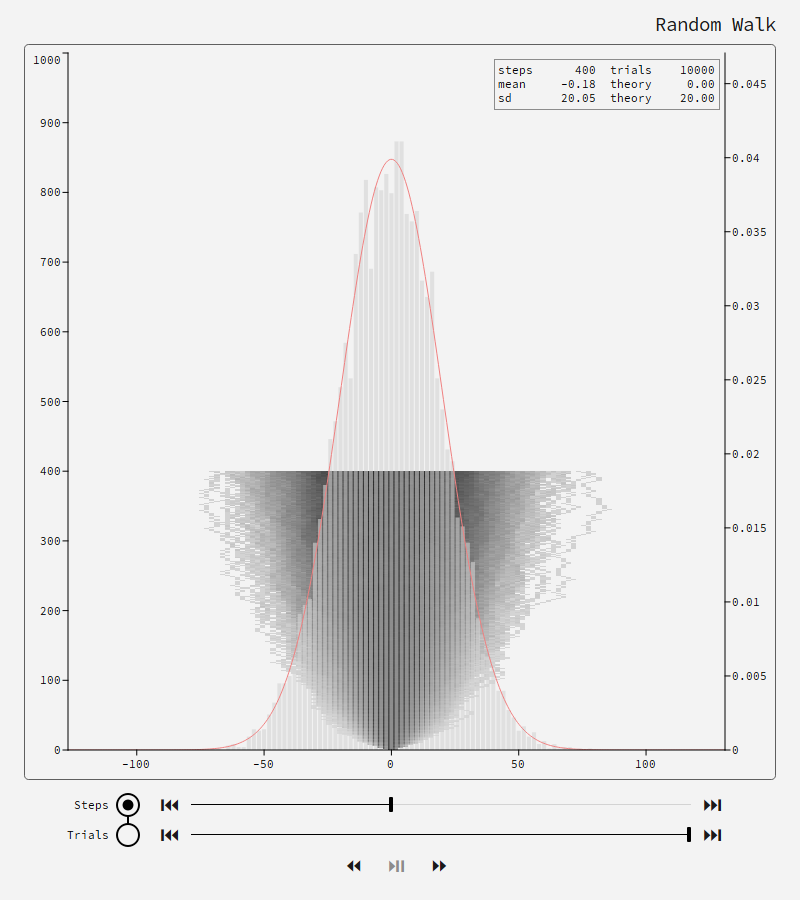
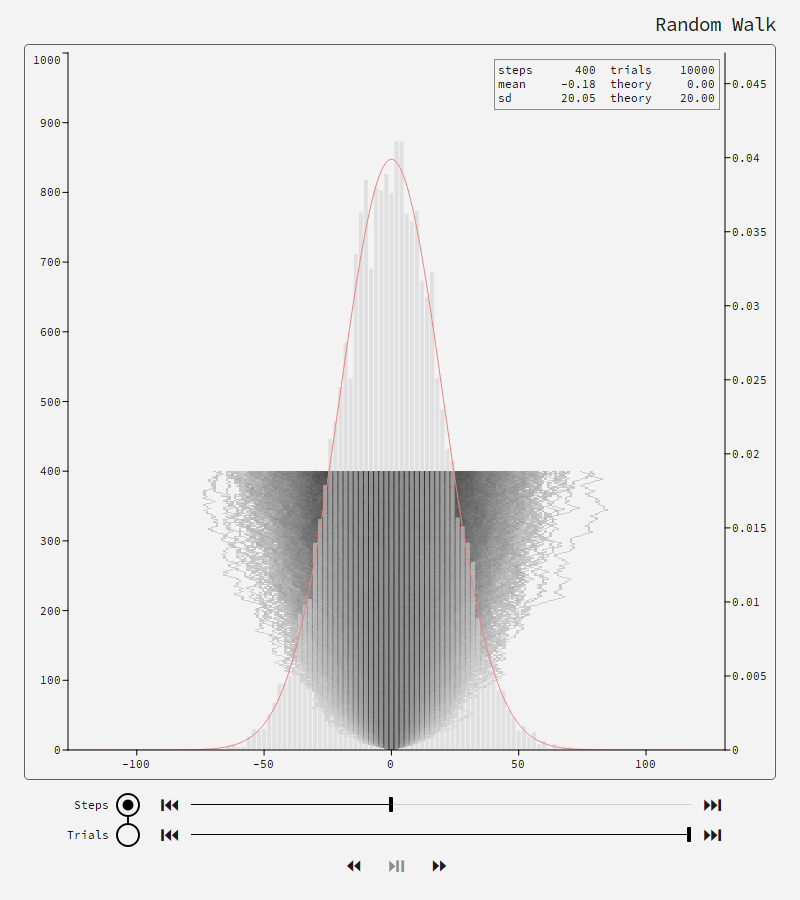
v0.4.0: Step trace fixed

Changed region(s): [[0.625, 0.5289, 0.75, 0.7156], [0.25, 0.5289, 0.375, 0.7467]]

diff --git a/src/random_walk/gui/walk_view.py b/src/random_walk/gui/walk_view.py
@@ -45,12 +45,12 @@ from PySide6.QtWidgets import QFrame, QWidget
 from random_walk import theory
 from random_walk.placement import Side, legend_side
 from random_walk.simulation import (
-    density_grid,
     fractions_at,
     legend_lines,
     legend_stats,
     normalize_rows,
     parity_bins,
+    trace_grid,
 )
 from random_walk.ticks import nice_step, nice_ticks, tick_label
 
@@ -67,7 +67,6 @@ DENSITY_DARKEST = "#222222"
 # sparse cells (at 0.3 a cell with 5% of the peak gets 41% of the shading, not 5%), so the
 # fan's thin outer edges show while the centre stays darkest. 1 = linear.
 DENSITY_GAMMA = 0.3
-DENSITY_BIN_WIDTH = 2  # positions per density column (one even, one odd)
 DENSITY_CACHE_SIZE = 4  # density images kept (one per shown step); animation makes many
 BAR_GAP = 1.0  # px between neighbouring bars, so they stay distinct
 THEORY_COLOR = "#F08080"  # light red (light coral) theory curve
@@ -83,8 +82,7 @@ THEORY_HEADROOM = 0.18
 BAR_HEADROOM = 0.05
 WALL_COLOR = "#8c8c8c"  # mid grey vertical line marking the reflecting wall
 WALL_WIDTH = 1.0  # px
-WALL_MARGIN = 6  # positions shown left of the wall: clear of the step axis; even, so the
-# density columns (2 positions each) start at the wall rather than straddling its line
+WALL_MARGIN = 6  # positions shown left of the wall, so its line stands clear of the step axis
 LEGEND_INSET = 6  # px from the plot's top-right corner to the legend box
 LEGEND_PADDING = 4  # px inside the box, around the text
 LEGEND_BORDER_COLOR = "#8c8c8c"  # mid grey, 1 px
@@ -227,7 +225,11 @@ class WalkView(QFrame):
         self._tallest_from: NDArray[np.float64] = np.zeros(0)
         self.hold_density = False
         self._legend_side: Side = "right"  # the legend's top corner; see _paint_legend
-        self._density_images: dict[tuple[int, int], QImage] = {}  # by (trials, last step)
+        # by (trials, last step, pixel height)
+        self._density_images: dict[tuple[int, int, int], QImage] = {}
+        # The shading squeezed to the plot's height: ((trials, height), first steps, rows).
+        self._combined: tuple[tuple[int, int], NDArray[np.int64], NDArray[np.float64]] | None
+        self._combined = None
 
     def set_paths(
         self, paths: NDArray[np.int64], p_right: float = 0.5, wall: int | None = None
@@ -512,22 +514,41 @@ class WalkView(QFrame):
         )
         painter.restore()
 
-    def density_image(self) -> QImage:
-        """The counted walks' positions at every step as a greyscale image: one row per step
-        (step 0 at the bottom), one column per DENSITY_BIN_WIDTH positions, each row shaded
-        relative to its own busiest cell; rows above the shown step are left empty. Counted
-        once per number of trials (~0.1 s for 10,000 walks), unless `hold_density` keeps the
-        last count; the last few shown steps' images are cached."""
+    def density_image(self, height: int | None = None) -> QImage:
+        """The counted walks' traces as a greyscale image (simulation.trace_grid): one row per
+        stretch between steps (step 0 at the bottom), one column per unit interval between
+        positions, each row shaded relative to its own busiest cell; rows beyond the shown
+        step are left empty. Counted once per number of trials (~75 ms for 10,000 walks),
+        unless `hold_density` keeps the last count; the last few images are cached.
+
+        With `height` (px) below the number of steps, the image is that tall instead: each
+        pixel row takes the darkest of the steps it covers. Scaling down by dropping rows
+        would cut gaps into a lone walk's trace."""
         shade = self._density_counted()
         last = self.shown_step()
-        key = (self._density_trials, last)
+        rows = len(shade)
+        height = rows if height is None else min(max(height, 1), rows)
+        key = (self._density_trials, last, height)
         if key not in self._density_images:
-            shade = shade.copy()
-            shade[last + 1 :] = 0  # the walks haven't got there yet
+            # `lifted`: the shade raised to DENSITY_GAMMA, which lifts the sparse cells. (For
+            # combined rows it's applied once, in the cache: the darkest of the lifted values
+            # is the lifted darkest value.)
+            if height < rows:  # combine, don't drop: the darkest step in each pixel row
+                starts, combined = self._combined_rows(height)
+                lifted = combined.copy()
+                boundary = last * height // rows  # the pixel row holding step `last`
+                if boundary < height:  # (at the last step every row is shown)
+                    lifted[boundary:] = 0  # the walks haven't got there yet
+                    if last > starts[boundary]:  # its steps before `last` are shown
+                        darkest_so_far = self._density_shade_rows(starts[boundary], last)
+                        lifted[boundary] = darkest_so_far**DENSITY_GAMMA
+            else:
+                lifted = shade.copy()
+                lifted[last:] = 0  # the walks haven't got there yet (row k runs to k + 1)
+                lifted **= DENSITY_GAMMA
             empty = self.palette().window().color().lightness()
             darkest = QColor(DENSITY_DARKEST).lightness()
-            shade = shade**DENSITY_GAMMA  # lift the sparse cells (see DENSITY_GAMMA)
-            grey = np.round(empty - shade * (empty - darkest)).astype(np.uint8)
+            grey = np.round(empty - lifted * (empty - darkest)).astype(np.uint8)
             pixels = np.ascontiguousarray(grey[::-1])  # image rows run top-down
             height, width = pixels.shape
             image = QImage(pixels.data, width, height, width, QImage.Format.Format_Grayscale8)
@@ -536,22 +557,41 @@ class WalkView(QFrame):
             self._density_images[key] = image.copy()  # own the pixels; `pixels` is temporary
         return self._density_images[key]
 
+    def _combined_rows(self, height: int) -> tuple[NDArray[np.int64], NDArray[np.float64]]:
+        """The whole shading squeezed into `height` pixel rows, each the darkest of the steps
+        it covers, already raised to DENSITY_GAMMA, and each pixel row's first step. Cached
+        per count and height, so a frame only has to blank the rows beyond its step."""
+        shade = self._density_counted()
+        cache_key = (self._density_trials, height)
+        if self._combined is None or self._combined[0] != cache_key:
+            rows = len(shade)
+            pixel_rows = np.arange(rows) * height // rows  # every pixel row gets >= 1 step
+            starts = np.flatnonzero(np.diff(pixel_rows, prepend=-1))
+            combined = np.maximum.reduceat(shade, starts, axis=0) ** DENSITY_GAMMA
+            self._combined = (cache_key, starts, combined)
+        return self._combined[1], self._combined[2]
+
+    def _density_shade_rows(self, first: int, stop: int) -> NDArray[np.float64]:
+        """The darkest shade over steps `first`..`stop - 1`, cell by cell."""
+        assert self._density_shade is not None
+        return self._density_shade[first:stop].max(axis=0)
+
     def _density_counted(self) -> NDArray[np.float64]:
         """The density shading for the counted trials, counting them first if needed (unless
-        `hold_density` keeps the last count). The count also gives each step's tallest bar:
-        at any one step every walk shares a parity, so each width-2 density cell holds one
-        histogram bin."""
+        `hold_density` keeps the last count). The same pass gives each step's tallest
+        histogram bar (`trace_grid`'s peaks)."""
         assert self._paths is not None
         trials = self.trial_count()
         if self._density_shade is None or (
             trials != self._density_trials and not self.hold_density
         ):
             lo, hi = self._x_range
-            grid = density_grid(self._paths[:trials], lo, hi, DENSITY_BIN_WIDTH)
-            self._density_shade = normalize_rows(grid)
+            segments, peaks = trace_grid(self._paths[:trials], lo, hi)
+            self._density_shade = normalize_rows(segments)
             self._density_trials = trials
             self._density_images = {}
-            tallest = grid.max(axis=1) / max(trials, 1)
+            self._combined = None  # (new walks may keep the same number of trials)
+            tallest = peaks / max(trials, 1)
             self._tallest_from = np.maximum.accumulate(tallest[::-1])[::-1]
         return self._density_shade
 
@@ -576,20 +616,18 @@ class WalkView(QFrame):
         painter.restore()
 
     def _paint_density(self, painter: QPainter) -> None:
-        image = self.density_image()
         area = self.walk_area()
+        image = self.density_image(height=max(1, round(area.height())))
         lo = self._x_range[0]
-        # Column j holds positions lo + 2j and lo + 2j + 1, so it's centred half a position
-        # right of lo + 2j; rows are centred on their steps.
-        left = float(x_to_screen(lo - 0.5, self._x_range, area))
-        right = float(
-            x_to_screen(lo + image.width() * DENSITY_BIN_WIDTH - 0.5, self._x_range, area)
-        )
-        row = area.height() / max(self._steps, 1)
-        target = QRectF(left, area.top() - row / 2, right - left, area.height() + row)
+        # Column j is the interval from lo + j to lo + j + 1, row k the stretch from step k to
+        # k + 1 - so the image spans exactly from position lo and step 0 to its far corner,
+        # and every walk's trace meets its exact positions.
+        left = float(x_to_screen(lo, self._x_range, area))
+        right = float(x_to_screen(lo + image.width(), self._x_range, area))
+        target = QRectF(left, area.top(), right - left, area.height())
         painter.save()
         painter.setClipRect(area)
-        painter.drawImage(target, image)  # nearest-neighbour scaling keeps the bins crisp
+        painter.drawImage(target, image)  # nearest-neighbour scaling keeps the cells crisp
         painter.restore()
 
     def _paint_theory(self, painter: QPainter) -> None:

diff --git a/src/random_walk/simulation.py b/src/random_walk/simulation.py
@@ -194,6 +194,37 @@ def density_grid(paths: IntArray, lo: int, hi: int, bin_width: int = 2) -> IntAr
     return grid
 
 
+def trace_grid(paths: IntArray, lo: int, hi: int) -> tuple[IntArray, IntArray]:
+    """The walks' traces as a grid, and each step's busiest position.
+
+    `segments` has shape (steps, hi - lo): row k is the stretch from step k to step k + 1,
+    column j the unit interval [lo + j, lo + j + 1], and each cell counts the walks whose line
+    from step k to k + 1 crosses it. Every step moves a walk by exactly one position (the
+    reflecting wall keeps that true), so each line crosses exactly one interval, the one
+    starting at the lower of its two ends. A walk from (20, 100) to (21, 101) lands in the
+    cell from 20 to 21, rows 100 to 101: drawn as an image, each walk is a chain of cells
+    meeting corner to corner at its exact positions. And there's no combing: in any row the
+    walks going up start their interval on one parity, those going down on the other.
+
+    `peaks` has shape (steps + 1,): the most walks at any one position at each step - the
+    tallest histogram bar's count, since width-2 parity bins hold one position each.
+
+    `lo`..`hi` must cover every position. One column of paths at a time: low memory.
+    """
+    runs, points = paths.shape
+    n_positions = hi - lo + 1
+    segments = np.zeros((points - 1, max(hi - lo, 1)), dtype=np.int64)
+    peaks = np.zeros(points, dtype=np.int64)
+    if runs == 0:
+        return segments, peaks
+    for k in range(points):
+        peaks[k] = np.bincount(paths[:, k] - lo, minlength=n_positions).max()
+        if k + 1 < points:
+            starts = np.minimum(paths[:, k], paths[:, k + 1]) - lo
+            segments[k] = np.bincount(starts, minlength=segments.shape[1])[: segments.shape[1]]
+    return segments, peaks
+
+
 def normalize_rows(grid: IntArray) -> FloatArray:
     """Each row scaled to its own maximum (rows of zeros stay zero), so every step is shaded
     on the same 0..1 scale however spread out its walks are."""

diff --git a/tests/test_simulation.py b/tests/test_simulation.py
@@ -12,6 +12,7 @@ from random_walk.simulation import (
     simulate,
     simulate_paths,
     summarize,
+    trace_grid,
 )
 
 
@@ -291,6 +292,34 @@ def test_density_grid_has_no_empty_parity_columns():
     grid = density_grid(paths, int(paths.min()), int(paths.max()))
     middle = grid[50, 5:-5]
     assert (middle > 0).all()
+
+
+def test_trace_grid_puts_a_walk_in_the_intervals_it_crosses():
+    # One walk: 0 -> 1 -> 2 -> 1 (positions), with lo = -1, hi = 2: intervals [-1,0], [0,1],
+    # [1,2]. Step 0->1 crosses [0,1]; 1->2 crosses [1,2]; 2->1 crosses [1,2] again.
+    segments, peaks = trace_grid(np.array([[0, 1, 2, 1]]), lo=-1, hi=2)
+    np.testing.assert_array_equal(segments, [[0, 1, 0], [0, 0, 1], [0, 0, 1]])
+    np.testing.assert_array_equal(peaks, [1, 1, 1, 1])
+
+
+def test_trace_grid_rows_hold_every_walk_and_both_parities():
+    paths = simulate_paths(2000, 60, wall=None, rng=rng())
+    lo, hi = int(paths.min()), int(paths.max())
+    segments, _ = trace_grid(paths, lo, hi)
+    assert segments.shape == (60, hi - lo)
+    assert (segments.sum(axis=1) == 2000).all()  # every walk crosses one interval per step
+    # No combing: a busy row fills neighbouring columns of both parities, unlike positions.
+    middle = segments[50, (0 - lo) - 5 : (0 - lo) + 5]
+    assert (middle > 0).all()
+
+
+def test_trace_grid_peaks_are_the_tallest_histogram_bar():
+    paths = simulate_paths(500, 40, wall=-3, p_right=0.4, rng=rng())
+    lo, hi = int(paths.min()), int(paths.max())
+    _, peaks = trace_grid(paths, lo, hi)
+    for step in (0, 1, 7, 40):
+        _, fractions = fractions_at(paths[:, step], parity_bins(paths[:, step]))
+        assert peaks[step] == round(fractions.max() * 500)
 
 
 def test_normalize_rows_scales_each_row_to_its_peak():

diff --git a/src/random_walk/__init__.py b/src/random_walk/__init__.py
@@ -1,3 +1,3 @@
 """Interactive 1D random walk explorer."""
 
-__version__ = "0.3.9"
+__version__ = "0.4.0"

diff --git a/CLAUDE.md b/CLAUDE.md
@@ -75,8 +75,8 @@ version (v0.3.x).
     bar), not rounded, ticks the round values below - the bell keeps a steady height and the
     labels slide. 0.18 is the smallest headroom with no bar cut off at 10,000 trials.
   - Steps mode, no curve (wall on, step 0, P(right) 0 or 1): top = the tallest bar from this
-    step to the end x 1.05 (`WalkView.tallest_from()`, a suffix max from the density count;
-    at one step all walks share a parity, so each 2-wide cell is one bin). Only shrinks as a
+    step to the end x 1.05 (`WalkView.tallest_from()`, a suffix max of `trace_grid`'s peaks:
+    each step's busiest position, as width-2 parity bins hold one position). Only shrinks as a
     run plays: no flicker, nothing cut off.
   - Trials mode: fixed to all 10,000 trials at the chosen step and its theory peak
     (`probability_from_full`); early bars are cut off at the top, by the user's choice.
@@ -106,12 +106,23 @@ version (v0.3.x).
   the wall, plus ~50 ms for the first density image.
 - **Drawing** (`gui/walk_view.py`): what's shown is a frozen `Drawing` built per frame. Room
   for both side axes is always reserved, so x positions never move. With the wall on: no
-  theory curve, the x range starts `WALL_MARGIN` 6 positions left of the wall (even, so the
-  2-wide density columns start at it), and a grey line marks it at wall - 1 (the lowest bar's
-  left edge). Density: `density_grid()` counted once per number of trials (held while the
-  Trials slider is dragged, `hold_density`), shaded per row (`DENSITY_DARKEST` #222222,
-  `DENSITY_GAMMA` 0.3, the user's choices), drawn as a stretched image. Walk drawing
-  (`Drawing.walks`) is still there, though no mode uses it.
+  theory curve, the x range starts `WALL_MARGIN` 6 positions left of the wall, and a grey
+  line marks it at wall - 1 (the lowest bar's left edge). Walk drawing (`Drawing.walks`) is
+  still there, though no mode uses it.
+- **Density traces** (v0.4.0, the user's report: a lone walk at 20 after 100 steps showed
+  as a bar 2 positions wide, shifted half a position): `simulation.trace_grid()` counts, per
+  stretch between steps k and k + 1, the walks whose line crosses each unit interval
+  [x, x + 1] (every step moves one position, so exactly one interval). The image spans
+  exactly from position lo, step 0: each walk is a chain of cells meeting at its exact
+  positions, a thin line. No combing: walks going up start on one parity, going down on the
+  other. ~75 ms per count (once per number of trials; held while the Trials slider is
+  dragged, `hold_density`). The same pass gives `peaks` for the axis. The plot is shorter
+  than 1000 rows, so the image is squeezed to the plot's pixel height by taking the darkest
+  step in each pixel row (`_combined_rows`, cached per count and height, DENSITY_GAMMA
+  applied there); dropping rows (Qt's nearest-neighbour scaling) cut gaps in a lone walk's
+  line. Shaded per row (`DENSITY_DARKEST` #222222, `DENSITY_GAMMA` 0.3, the user's choices).
+  Frame repaint ~25 ms (v0.3.9 ~23). The histogram keeps its width-2 bins (correct, the
+  user confirmed). `simulation.density_grid()` (2-wide position bins) is no longer used.
 - **Look**: Source Code Pro everywhere (`gui/ui_fonts.py`), button symbols from a bundled Noto
   Sans Symbols 2 subset (`gui/symbols.py`, `POINT_SIZE` 16; the buttons size themselves to
   it, so it sets the slider rows' height). Sliders: 16 px tall (`SLIDER_HEIGHT`), 1 px track,

diff --git a/docs/design-notes.md b/docs/design-notes.md
@@ -55,10 +55,13 @@ Both modes keep their slider positions.
 
 ### Drawing speed
 
-- Density: `simulation.density_grid()` counts walks per (step, 2-wide position bin) once per
-  number of trials; `WalkView` shades it into a small greyscale image and stretches it. Far
-  faster than drawing thousands of lines.
-- The same count gives each step's tallest histogram bar, which sizes the probability axis
+- Density: `simulation.trace_grid()` counts, between each pair of steps, how many walks'
+  lines cross each unit interval between positions, once per number of trials; `WalkView`
+  shades it into a small greyscale image (squeezed to the plot's height by taking the
+  darkest step per pixel row, so no walk's line gets gaps) and stretches it. Each walk is
+  drawn exactly, as a thin line through its positions, and both parities fill every row, so
+  there's no combing. Far faster than drawing thousands of lines.
+- The same pass gives each step's tallest histogram bar, which sizes the probability axis
   when there's no theory curve to follow.
 - Polylines are filled straight from numpy arrays (`polygon_from_arrays`), about 100x faster
   than building one `QPointF` per point.

diff --git a/README.md b/README.md
@@ -72,9 +72,11 @@ step in Steps mode and one trial in Trials mode.
 
 ## What you're looking at
 
-- **Grey shading (Steps mode):** how many walks were at each position at each step, from
-  step 0 at the bottom up to the current step. Each step is shaded on its own scale, so the
-  darkest cell in every row is where most of that step's walks were.
+- **Grey shading (Steps mode):** the walks' paths, from step 0 at the bottom up to the
+  current step. Each walk is traced exactly through its positions, and where many paths
+  overlap the shading builds up darker. Each step is shaded on its own scale, so the darkest
+  part of every row is where most of that step's walks passed. With only a few trials you
+  can follow each walk as a thin line.
 - **Light grey bars:** the histogram, each bar's share of the trials, against the
   probability axis on the right.
 - **Red curve:** the theoretical distribution after that many steps, a normal curve with mean
